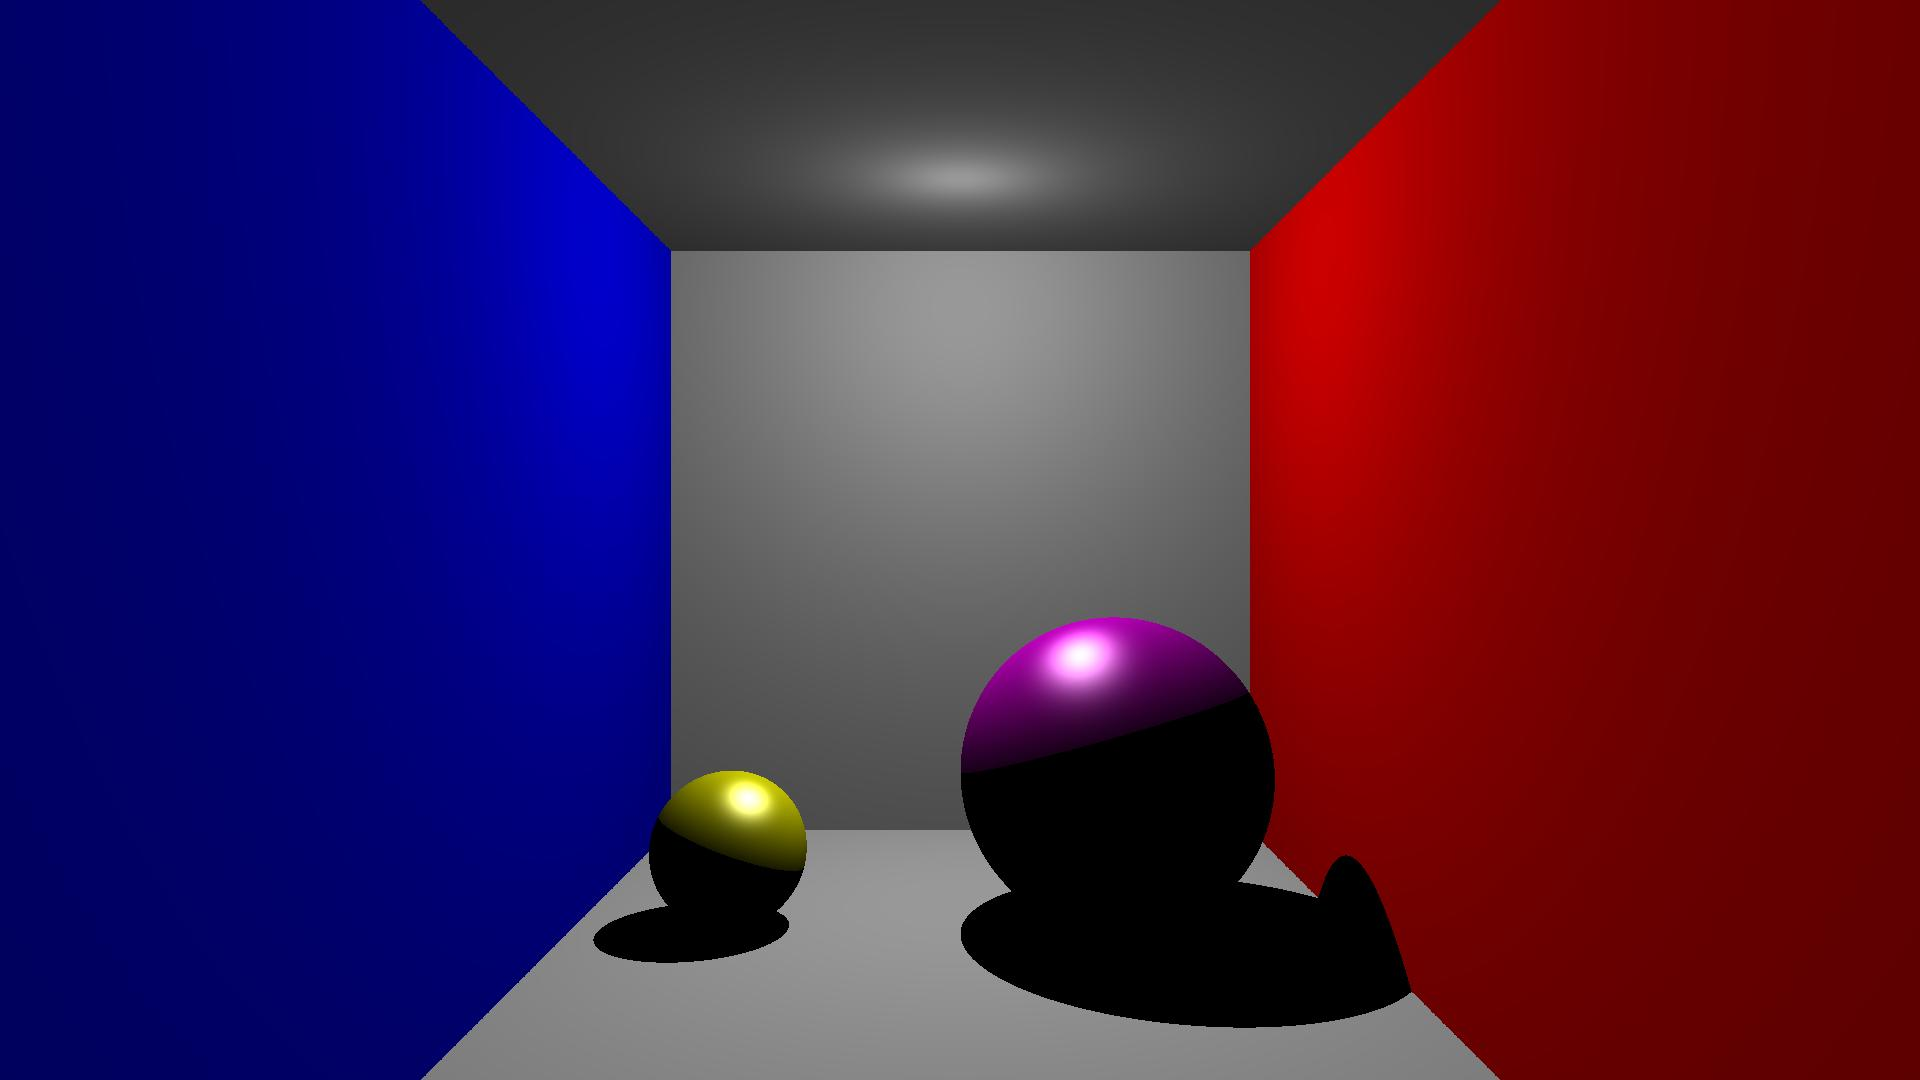
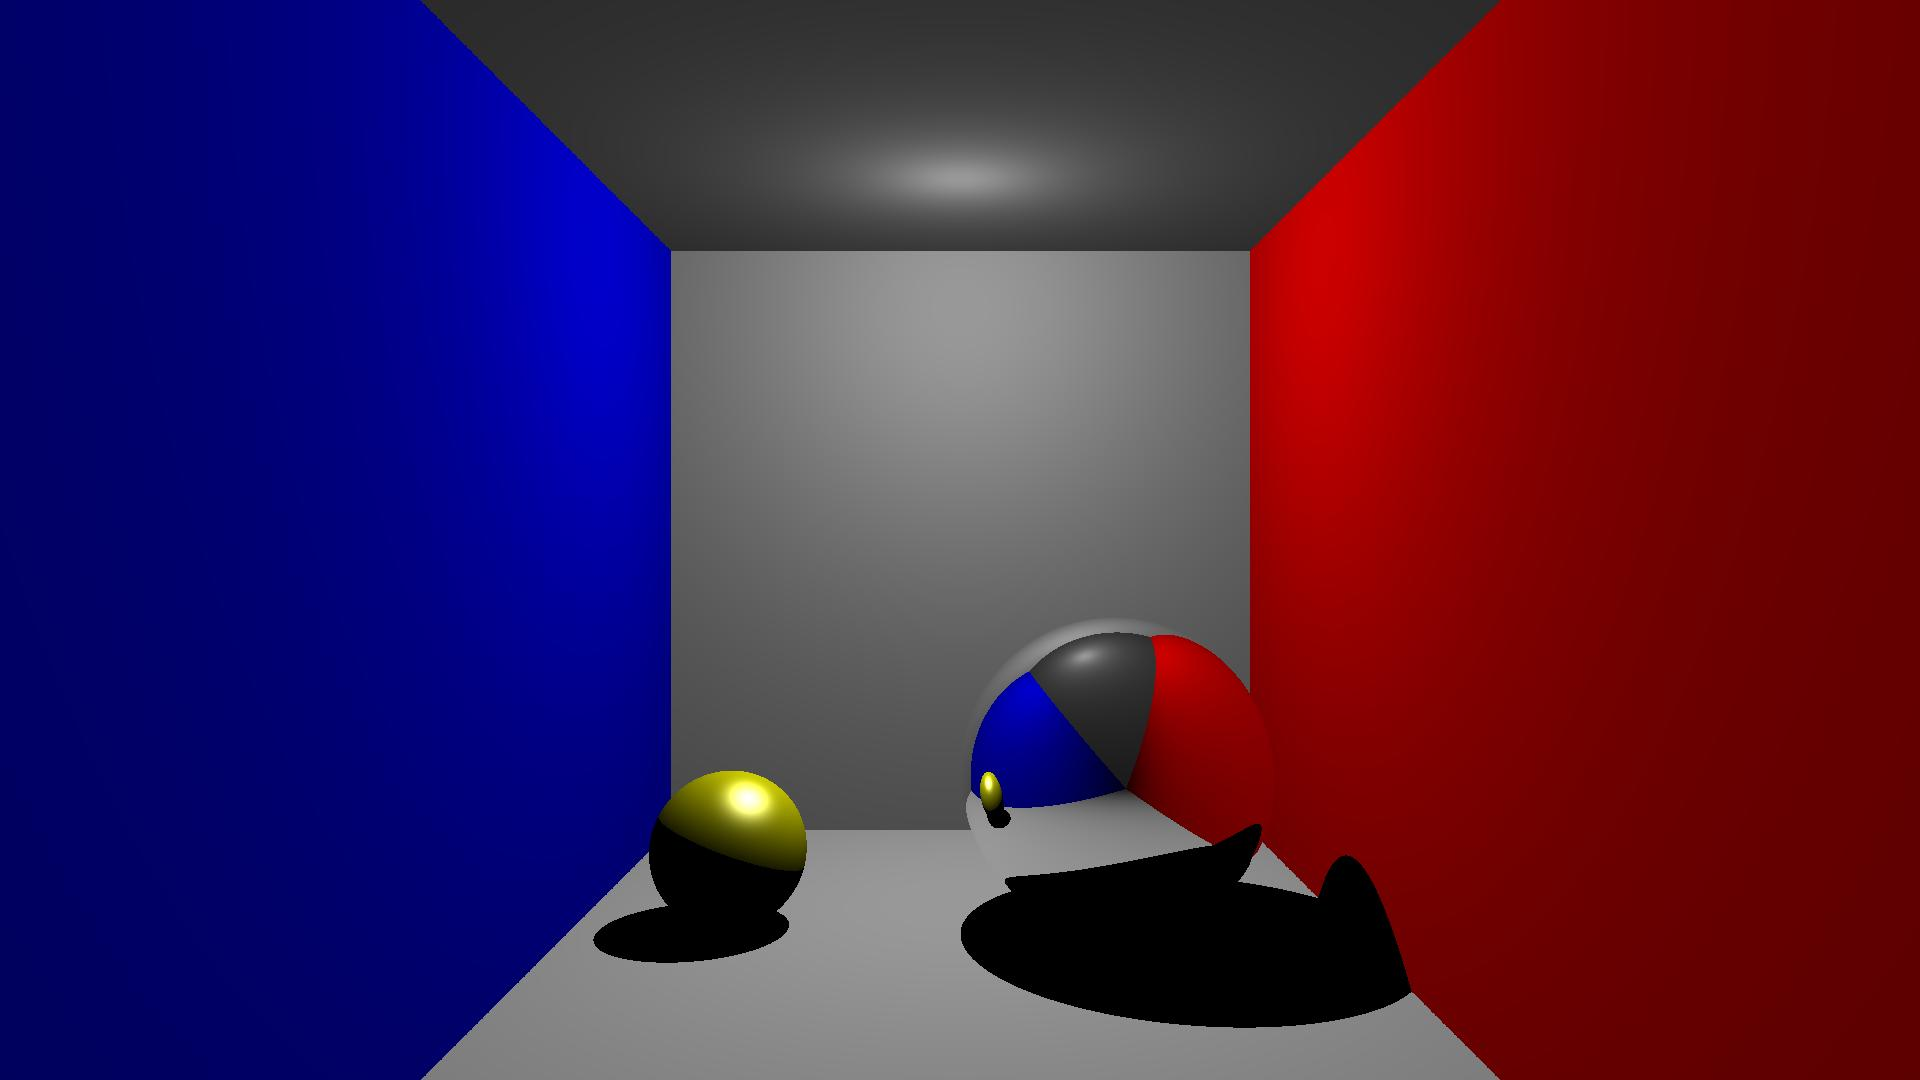
Fix shadows

Changed region(s): [[0.5, 0.55, 0.6875, 0.825]]

diff --git a/scene.py b/scene.py
@@ -42,19 +42,15 @@ class Scene:
         nearest_intersection = self.nearest_intersection(ray)
         if nearest_intersection is None:
             return np.zeros((3))
-
-        reflection = 0.0
-
-        if depth != 0:
-            reflection = nearest_intersection.material().reflection
-
+    
         illumination = np.array([self.shadow_brightness, self.shadow_brightness, self.shadow_brightness])
         if self.check_light(nearest_intersection):
             illumination = self.calculate_illumination(ray, nearest_intersection)
 
+        reflection = nearest_intersection.material().reflection
+
         if (depth == self.max_depth) or (reflection < EPS):
             return illumination
-
 
         reflected_ray = self.reflected(ray, nearest_intersection)
         return illumination + reflection * self.sum_illumination(reflected_ray, depth + 1)
@@ -113,8 +109,8 @@ class Scene:
         return illumination
 
     def reflected(self, ray: Ray, intersection: Intersection):
-        reflected_ray_origin = intersection.position()
         normal = intersection.normal()
+        reflected_ray_origin = intersection.position() + 1e-5 * normal
         reflected_ray_direction = ray.direction - 2 * np.dot(ray.direction, normal) * normal
         return Ray(reflected_ray_origin, reflected_ray_direction)
 

diff --git a/main.py b/main.py
@@ -38,7 +38,7 @@ scene.add_shape(roof)
 
 sphere_material = Material(Color.yellow(0.1), Color.yellow(0.7), Color.gray(1.0))
 sphere = Sphere(np.array([3.0, 1.0, 5.0]), 1.0, sphere_material)
-reflecting_material = Material(Color.purple(0.1), Color.purple(0.7), Color.gray(1.0), 100.0, 0.9)
+reflecting_material = Material(Color.purple(0.0), Color.purple(0.0), Color.gray(0.0), 0.0, 1.0)
 reflecting_sphere = Sphere(np.array([-2.0, 2.0, 5.0]), 2.0, reflecting_material)
 
 scene.add_shape(sphere)
